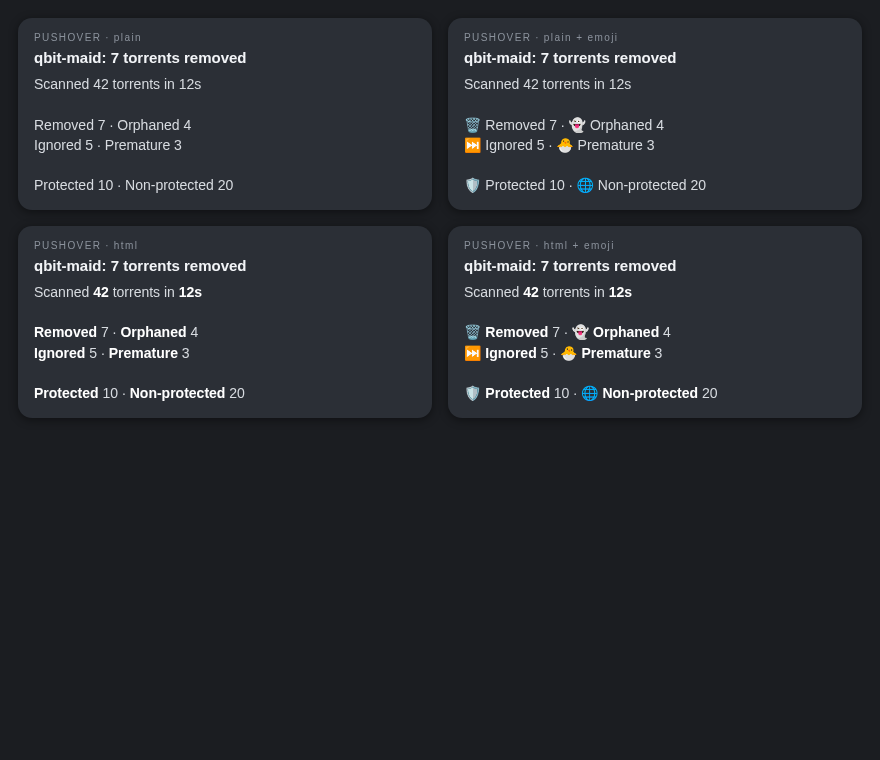
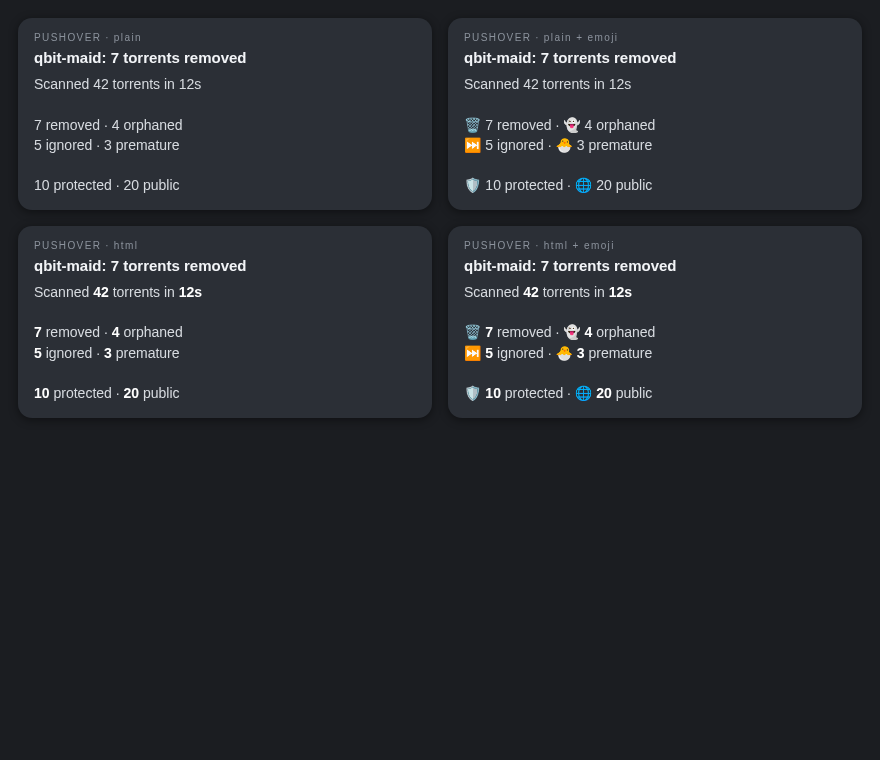
feat(notify): value-first emoji rows
Switch the summary to the layout jblu picked: each counter renders as
"emoji value label", grouped two per line and joined by a middle dot.

    Scanned 42 torrents in 12s

    🗑 7 removed  ·  👻 4 orphaned
    ⏭ 5 ignored  ·  🐣 3 premature

    🛡 10 protected  ·  🌐 20 public

- the value leads, so the numbers are the first thing the eye lands on
- html style now bolds the values instead of the labels
- "Non-protected" reads as "public", matching the non_protected_tag
- use_emoji now defaults to true; false gives the plain variant
- dry runs read "7 would be removed"

diff --git a/test_qbitmaid.py b/test_qbitmaid.py
@@ -190,16 +190,28 @@ class TestQbitmaid(unittest.TestCase):
         self.assertEqual(stats["runtime"], "unknown")
 
     def test_build_summary_plain(self):
-        title, body = build_summary(FakeQbt(), style="plain")
+        title, body = build_summary(FakeQbt(), style="plain", use_emoji=False)
         self.assertEqual(title, "qbit-maid: 7 torrents removed")
         self.assertEqual(
             body,
             "Scanned 42 torrents in 12s\n"
             "\n"
-            "Removed 7  \u00b7  Orphaned 4\n"
-            "Ignored 5  \u00b7  Premature 3\n"
+            "7 removed  \u00b7  4 orphaned\n"
+            "5 ignored  \u00b7  3 premature\n"
             "\n"
-            "Protected 10  \u00b7  Non-protected 20",
+            "10 protected  \u00b7  20 public",
+        )
+
+    def test_build_summary_plain_emoji(self):
+        _, body = build_summary(FakeQbt(), style="plain", use_emoji=True)
+        self.assertEqual(
+            body,
+            "Scanned 42 torrents in 12s\n"
+            "\n"
+            "\U0001F5D1\uFE0F 7 removed  \u00b7  \U0001F47B 4 orphaned\n"
+            "\u23ED\uFE0F 5 ignored  \u00b7  \U0001F423 3 premature\n"
+            "\n"
+            "\U0001F6E1\uFE0F 10 protected  \u00b7  \U0001F310 20 public",
         )
 
     def test_build_summary_plain_has_no_leading_indent(self):
@@ -224,33 +236,47 @@ class TestQbitmaid(unittest.TestCase):
         for row in rows:
             self.assertEqual(row.count("\u00b7"), 1, row)
 
+    def test_build_summary_value_leads_label(self):
+        """The number comes first so it is the first thing the eye lands on."""
+        _, body = build_summary(FakeQbt(), style="plain", use_emoji=False)
+        self.assertIn("7 removed", body)
+        self.assertIn("20 public", body)
+        self.assertNotIn("Removed 7", body)
+        self.assertNotIn("Non-protected", body)
+
     def test_build_summary_html(self):
         title, body = build_summary(FakeQbt(), style="html")
         self.assertEqual(title, "qbit-maid: 7 torrents removed")
         self.assertIn("Scanned <b>42</b> torrents in <b>12s</b>", body)
-        self.assertIn("<b>Removed</b> 7", body)
-        self.assertIn("<b>Non-protected</b> 20", body)
+        self.assertIn("<b>7</b> removed", body)
+        self.assertIn("<b>20</b> public", body)
         self.assertNotIn("---", title)
 
     def test_build_summary_emoji(self):
         _, plain = build_summary(FakeQbt(), style="plain", use_emoji=True)
-        self.assertIn("\U0001F5D1\uFE0F Removed 7", plain)
-        self.assertIn("\U0001F47B Orphaned 4", plain)
+        self.assertIn("\U0001F5D1\uFE0F 7 removed", plain)
+        self.assertIn("\U0001F47B 4 orphaned", plain)
         _, html = build_summary(FakeQbt(), style="html", use_emoji=True)
-        self.assertIn("\U0001F5D1\uFE0F <b>Removed</b> 7", html)
+        self.assertIn("\U0001F5D1\uFE0F <b>7</b> removed", html)
+
+    def test_build_summary_emoji_off_has_no_emoji(self):
+        _, body = build_summary(FakeQbt(), style="plain", use_emoji=False)
+        for marker in ("\U0001F5D1", "\U0001F47B", "\u23ED", "\U0001F423",
+                       "\U0001F6E1", "\U0001F310"):
+            self.assertNotIn(marker, body)
 
     def test_build_summary_delete_disabled(self):
         title, body = build_summary(FakeQbt(delete_torrents=False))
         self.assertEqual(title, "qbit-maid: 7 torrents would be removed")
-        self.assertIn("Would remove 7", body)
-        self.assertNotIn("Removed", body)
-
-    def test_build_summary_does_not_repeat_title_in_body(self):
-        """The title already states the outcome; the body must not restate it."""
-        title, body = build_summary(FakeQbt(), style="plain")
+        self.assertIn("7 would be removed", body)
         self.assertNotIn("7 removed", body)
+
+    def test_build_summary_body_does_not_repeat_title_phrase(self):
+        """The title carries the outcome; the body must not restate it verbatim."""
+        title, body = build_summary(FakeQbt(), style="plain", use_emoji=False)
         self.assertNotIn("torrents removed", body)
-        self.assertIn("Removed 7", body)
+        self.assertNotIn("torrents would be removed", body)
+        self.assertIn("7 removed", body)
         self.assertTrue(title.endswith("7 torrents removed"))
 
     def test_build_summary_nothing_to_do(self):
@@ -276,16 +302,20 @@ class TestQbitmaid(unittest.TestCase):
     def test_get_notify_options_defaults(self):
         opts = get_notify_options(FakeQbt())
         self.assertEqual(opts["style"], "plain")
-        self.assertFalse(opts["use_emoji"])
+        self.assertTrue(opts["use_emoji"])
         self.assertFalse(opts["include_hostname"])
         self.assertTrue(opts["notify_on_empty"])
         self.assertIsNone(opts["priority"])
         self.assertIsNone(opts["sound"])
 
+    def test_get_notify_options_emoji_can_be_disabled(self):
+        opts = get_notify_options(FakeQbt(config={"pushover": {"use_emoji": False}}))
+        self.assertFalse(opts["use_emoji"])
+
     def test_get_notify_options_overrides(self):
         fake = FakeQbt(config={"pushover": {
             "format": "HTML",
-            "use_emoji": True,
+            "use_emoji": False,
             "include_hostname": True,
             "notify_on_empty": False,
             "priority": 2,
@@ -295,7 +325,7 @@ class TestQbitmaid(unittest.TestCase):
         }})
         opts = get_notify_options(fake)
         self.assertEqual(opts["style"], "html")
-        self.assertTrue(opts["use_emoji"])
+        self.assertFalse(opts["use_emoji"])
         self.assertTrue(opts["include_hostname"])
         self.assertFalse(opts["notify_on_empty"])
         self.assertEqual(opts["priority"], 2)

diff --git a/qlogging.py b/qlogging.py
@@ -155,7 +155,7 @@ def get_notify_options(self):
     priority = po.get("priority")
     return {
         "style": style,
-        "use_emoji": bool(po.get("use_emoji", False)),
+        "use_emoji": bool(po.get("use_emoji", True)),
         "include_hostname": bool(po.get("include_hostname", False)),
         "notify_on_empty": bool(po.get("notify_on_empty", True)),
         "priority": None if priority is None else int(priority),
@@ -214,7 +214,10 @@ def debug_torrent_list(self):
 
 
 def _stat_row(pairs, style, use_emoji):
-    """Render one line of ``Label value`` pairs joined by a middle dot.
+    """Render one line of ``emoji value label`` pairs joined by a middle dot.
+
+    The value leads and the label trails, so the numbers are the first thing
+    the eye lands on even though the font is proportional.
 
     Args:
         pairs: Sequence of ``(emoji_key, label, value)`` tuples.
@@ -222,31 +225,33 @@ def _stat_row(pairs, style, use_emoji):
         use_emoji: Prefix each pair with its emoji marker.
 
     Returns:
-        A single line of text, e.g. ``Removed 7  \u00b7  Orphaned 4``.
+        A single line of text, e.g.
+        ``\U0001F5D1\uFE0F 7 removed  \u00b7  \U0001F47B 4 orphaned``.
     """
     parts = []
     for key, label, value in pairs:
         emoji = NOTIFY_EMOJI.get(key, "") if use_emoji else ""
         prefix = f"{emoji} " if emoji else ""
         if style == "html":
-            parts.append(f"{prefix}<b>{label}</b> {value}")
+            parts.append(f"{prefix}<b>{value}</b> {label}")
         else:
-            parts.append(f"{prefix}{label} {value}")
+            parts.append(f"{prefix}{value} {label}")
     return ROW_SEPARATOR.join(parts)
 
 
-def build_summary(self, style=DEFAULT_NOTIFY_STYLE, use_emoji=False,
+def build_summary(self, style=DEFAULT_NOTIFY_STYLE, use_emoji=True,
                   include_hostname=False):
     """Build the ``(title, body)`` pair used by every notifier.
 
     Result-first layout: the title states what happened, the body gives the
     scanned total, the actionable counters, then the tracker split. Counters
-    are grouped two-per-line and separated by a middle dot, because Pushover
-    renders a proportional font and space-padded columns do not line up.
+    are grouped two-per-line as ``emoji value label`` and separated by a middle
+    dot, because Pushover renders a proportional font and space-padded columns
+    do not line up.
 
     Args:
         style: ``"plain"`` for grouped text, ``"html"`` for Pushover HTML.
-        use_emoji: Prefix each row with an emoji marker.
+        use_emoji: Prefix each counter with an emoji marker.
         include_hostname: Add a ``Host:`` line above the summary.
 
     Returns:
@@ -286,19 +291,19 @@ def build_summary(self, style=DEFAULT_NOTIFY_STYLE, use_emoji=False,
         lines.append(f"Scanned {total} {scanned_noun} in {stats['runtime']}")
     lines.append("")
 
-    removed_label = "Removed" if delete_enabled else "Would remove"
+    removed_label = "removed" if delete_enabled else "would be removed"
     lines.append(_stat_row([
         ("removed", removed_label, removed),
-        ("orphaned", "Orphaned", stats["orphaned"]),
+        ("orphaned", "orphaned", stats["orphaned"]),
     ], style, use_emoji))
     lines.append(_stat_row([
-        ("ignored", "Ignored", stats["ignored"]),
-        ("premature", "Premature", stats["premature"]),
+        ("ignored", "ignored", stats["ignored"]),
+        ("premature", "premature", stats["premature"]),
     ], style, use_emoji))
     lines.append("")
     lines.append(_stat_row([
-        ("protected", "Protected", stats["protected"]),
-        ("non_protected", "Non-protected", stats["non_protected"]),
+        ("protected", "protected", stats["protected"]),
+        ("non_protected", "public", stats["non_protected"]),
     ], style, use_emoji))
 
     return title, "\n".join(lines)

diff --git a/README.md b/README.md
@@ -137,35 +137,38 @@ Pushover and Apprise share one summary builder, so both report the same
 numbers. The title states the outcome, the body gives the scanned total, the
 actionable counters, then the tracker split.
 
-`format = "plain"` (default) produces a compact, grouped summary:
+The default summary looks like this:
 
 ```
 qbit-maid: 7 torrents removed
 
 Scanned 42 torrents in 12s
 
-Removed 7  ·  Orphaned 4
-Ignored 5  ·  Premature 3
+🗑 7 removed  ·  👻 4 orphaned
+⏭ 5 ignored  ·  🐣 3 premature
 
-Protected 10  ·  Non-protected 20
+🛡 10 protected  ·  🌐 20 public
 ```
 
-Counters are grouped two per line and joined with a middle dot rather than
-padded into columns. Pushover renders the body in a proportional font, so
-space-padded columns collapse into a ragged list on a phone — the separator
-survives any font.
+Each counter is `emoji value label`, grouped two per line and joined with a
+middle dot. The value leads so the numbers are the first thing the eye lands
+on, and the separator survives any font — Pushover renders the body in a
+proportional font, so space-padded columns collapse into a ragged list on a
+phone.
 
-`format = "html"` bolds the labels using Pushover's HTML subset (`html=1` is
+`format = "html"` bolds the values using Pushover's HTML subset (`html=1` is
 set automatically). Apprise has no HTML support, so it always receives the
 plain body.
 
-Setting `use_emoji = true` prefixes each counter with an emoji marker:
+`use_emoji` defaults to `true`. Set it to `false` for a plain-text variant:
 
 ```
-🗑 Removed 7  ·  👻 Orphaned 4
-⏭ Ignored 5  ·  🐣 Premature 3
+Scanned 42 torrents in 12s
 
-🛡 Protected 10  ·  🌐 Non-protected 20
+7 removed  ·  4 orphaned
+5 ignored  ·  3 premature
+
+10 protected  ·  20 public
 ```
 
 To preview the result without sending a push, render the real
